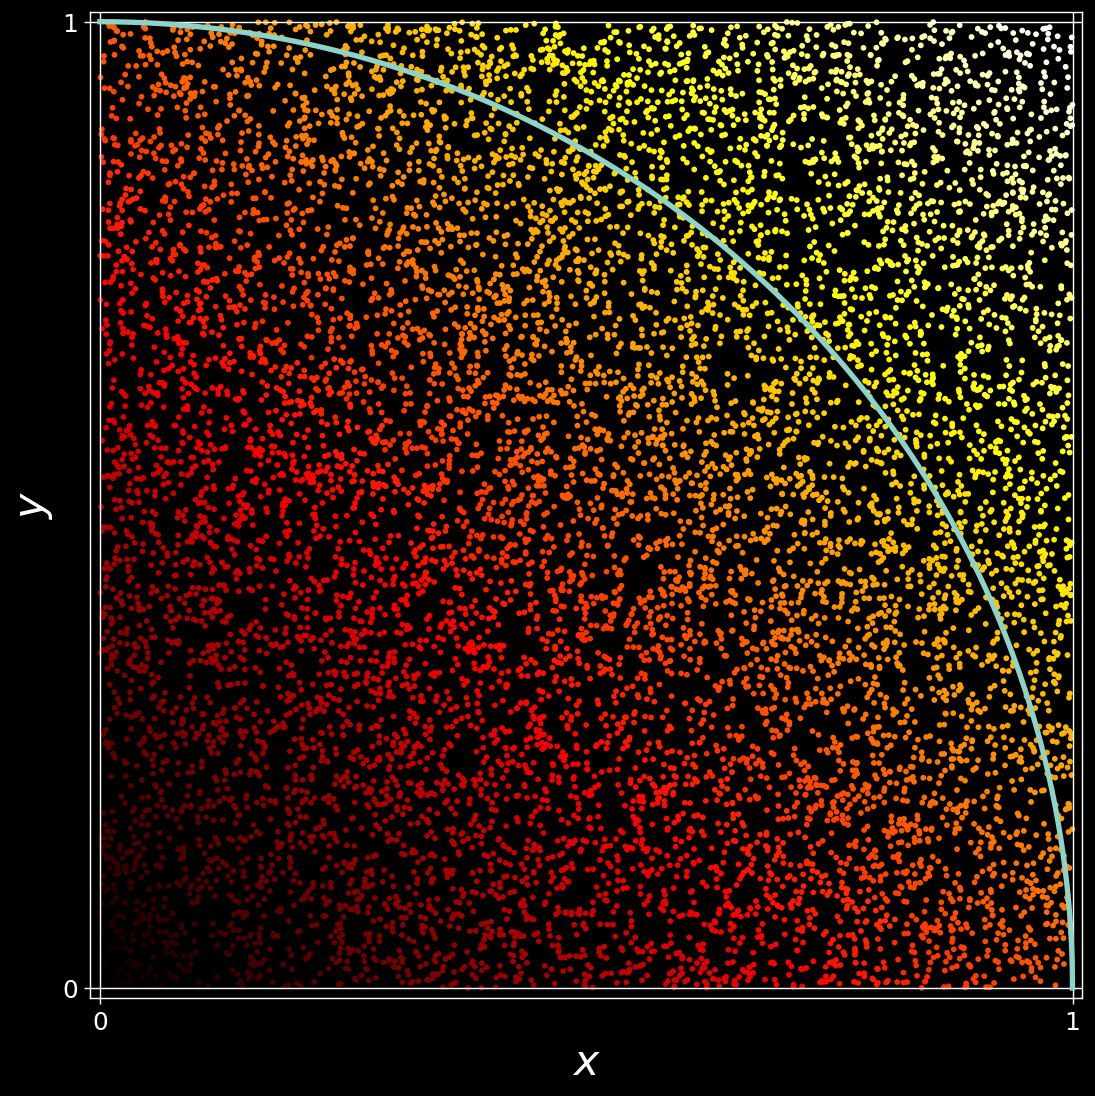
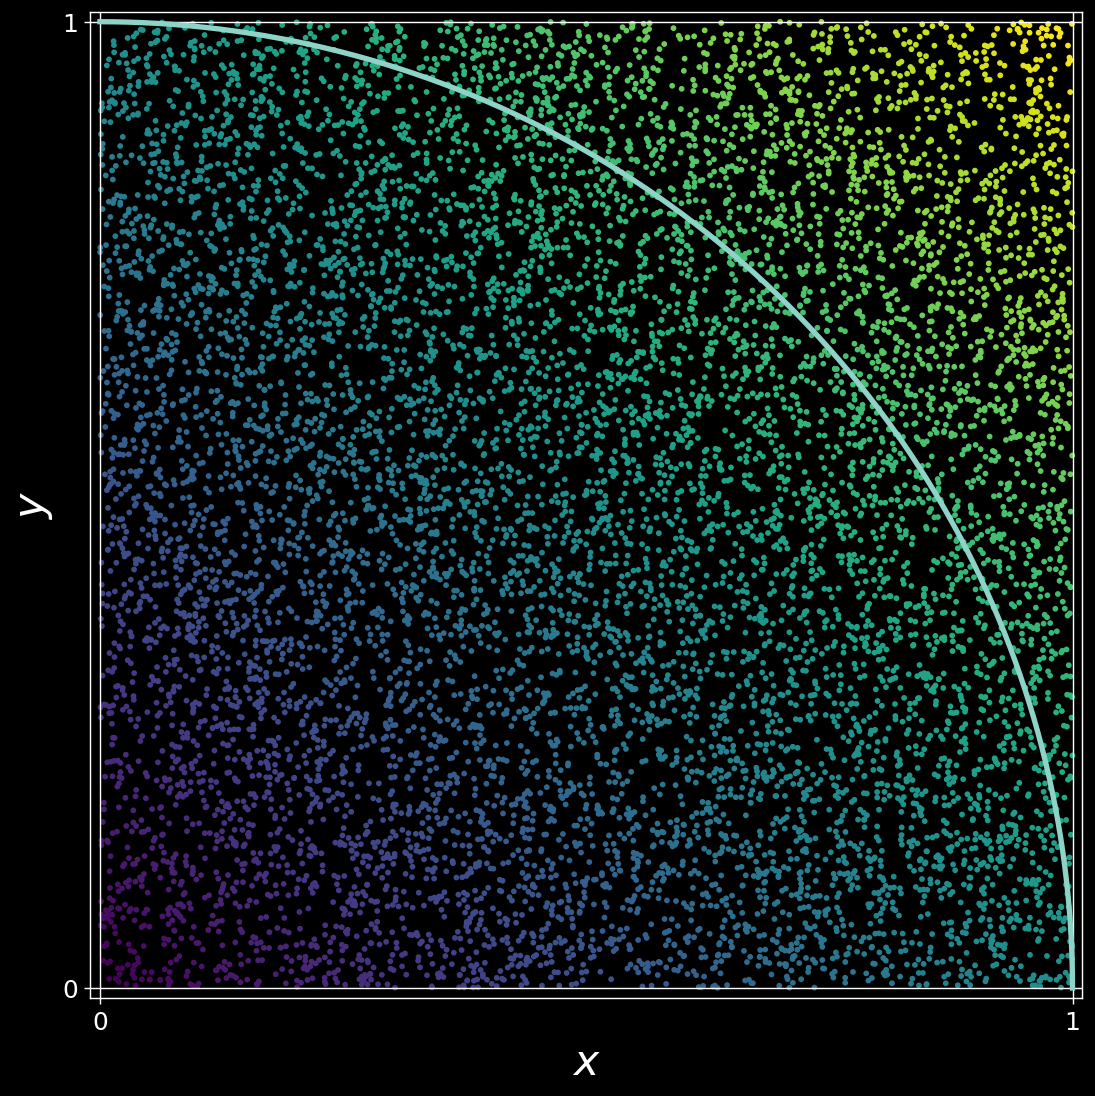
changed colormap to plot

diff --git a/utils/Grafica.py b/utils/Grafica.py
@@ -18,7 +18,7 @@ y = np.random.random(n)
 fig, ax = plt.subplots(figsize=(10, 10), dpi=128)
 ax.plot(circle_x, circle_y, linewidth=3)
 ax.scatter(
-    x, y, s=5, edgecolors=None, c=abs(x + y), cmap=plt.cm.hot,
+    x, y, s=5, edgecolors=None, c=abs(x + y), cmap=plt.cm.viridis,
 )
 ax.set_xlim([-0.01, 1.01])
 ax.set_ylim([-0.01, 1.01])
